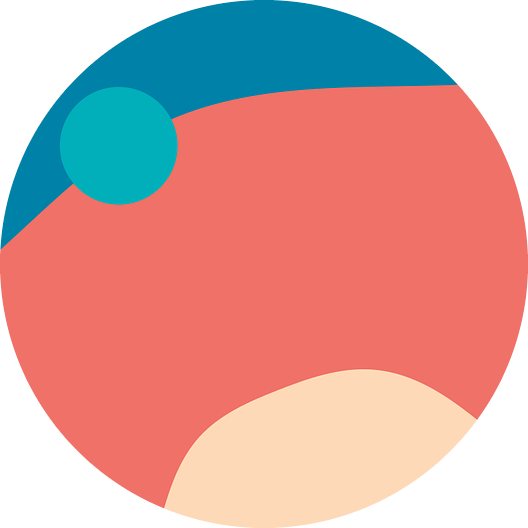
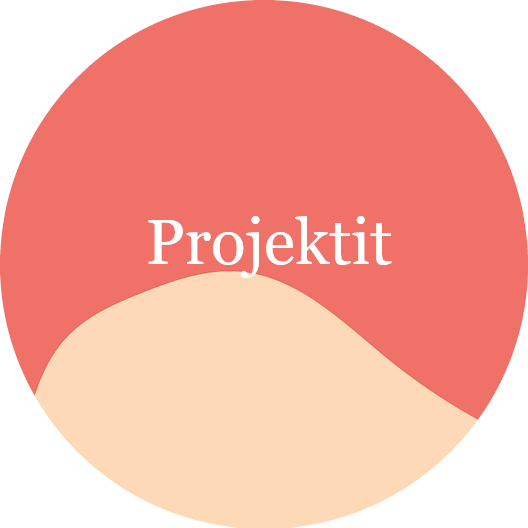
UI siivousta

diff --git a/index.html b/index.html
@@ -28,7 +28,8 @@
                 <div class="collapse navbar-collapse" id="navbarResponsive">
                
                     <ul class="navbar-nav text-uppercase ms-auto py-4 py-lg-0">
-                        <div class="masthead-subheading">KestoCase</div>
+                        <p style="font-size:21px;">KestoCase  </p><p></p>
+                       <!--     <a class="section-heading text-uppercase">KestoCase</a> -->
                         <a class="btn btn-dark btn-social mx-2" href="https://www.twitter.com/"><i class="fab fa-twitter"></i></a>
                         <a class="btn btn-dark btn-social mx-2" href="https://www.facebook.com/"><i class="fab fa-facebook-f"></i></a>
                         <a class="btn btn-dark btn-social mx-2" href="https://www.instagram.com/"><i class="fab fa-linkedin-in"></i></a>
@@ -55,12 +56,12 @@
                         <div class="portfolio-item">
                             <a class="portfolio-link" data-bs-toggle="modal" href="#portfolioModal1">
                                 <div class="portfolio-hover">
-                                    <div class="portfolio-hover-content"><i class="fas fa-plus fa-3x"></i></div>
+                                    <div class="portfolio-hover-content"></div>
                                 </div>
                                 <img class="img-fluid" src="assets/img/portfolio/pallovasen.png" alt="..." />
                             </a>
                             <div class="portfolio-caption">
-                                <div class="portfolio-caption-heading">Tietoa meistä</div>
+                                <!-- <div class="portfolio-caption-heading">Tietoa meistä</div> -->
                          <!--        <div class="portfolio-caption-subheading text-muted">Illustration</div>-->
                             </div>
                         </div>
@@ -70,13 +71,13 @@
                         <div class="portfolio-item">
                             <a class="portfolio-link" data-bs-toggle="modal" href="#portfolioModal2">
                                 <div class="portfolio-hover">
-                                    <div class="portfolio-hover-content"><i class="fas fa-plus fa-3x"></i></div>
+                                    <div class="portfolio-hover-content"></div>
                                 </div>
                                 <img class="img-fluid" src="assets/img/portfolio/pallo3.png" alt="..." />
                             </a>
                             <div class="portfolio-caption">
-                                <div class="portfolio-caption-heading">Visio</div>
-                            <!--       <div class="portfolio-caption-subheading text-muted">Graphic Design</div> -->
+                                <!-- <div class="portfolio-caption-heading">Visio</div> -->
+                            <!--       <div class="portfolio-caption-subheading text-muted">Graphic Design</div> <i class="fas fa-plus fa-3x"></i> -->
                             </div>
                         </div>
                     </div>
@@ -85,12 +86,12 @@
                         <div class="portfolio-item">
                             <a class="portfolio-link" data-bs-toggle="modal" href="#portfolioModal3">
                                 <div class="portfolio-hover">
-                                    <div class="portfolio-hover-content"><i class="fas fa-plus fa-3x"></i></div>
+                                    <div class="portfolio-hover-content"></div>
                                 </div>
                                 <img class="img-fluid" src="assets/img/portfolio/pallo2.png" alt="..." />
                             </a>
                             <div class="portfolio-caption">
-                                <div class="portfolio-caption-heading">Projektit</div>
+                                <!-- <div class="portfolio-caption-heading">Projektit</div> -->
                          <!--       <div class="portfolio-caption-subheading text-muted">Identity</div>-->
                             </div>
                         </div>

diff --git a/css/styles.css b/css/styles.css
@@ -11465,6 +11465,7 @@ header.masthead .masthead-heading {
 }
 #portfolio .portfolio-item {
   max-width: 26rem;
+  border: #b6effb;
   margin-left: auto;
   margin-right: auto;
 }
@@ -11476,8 +11477,8 @@ header.masthead .masthead-heading {
 #portfolio .portfolio-item .portfolio-link .portfolio-hover {
   display: flex;
   position: absolute;
-  width: 100%;
-  height: 100%;
+  width: 10%;
+  height: 10%;
   background: rgba(255, 200, 0, 0.9);
   align-items: center;
   justify-content: center;
